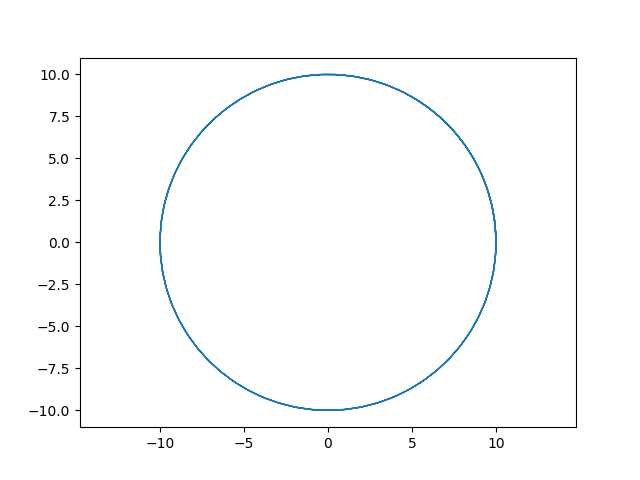
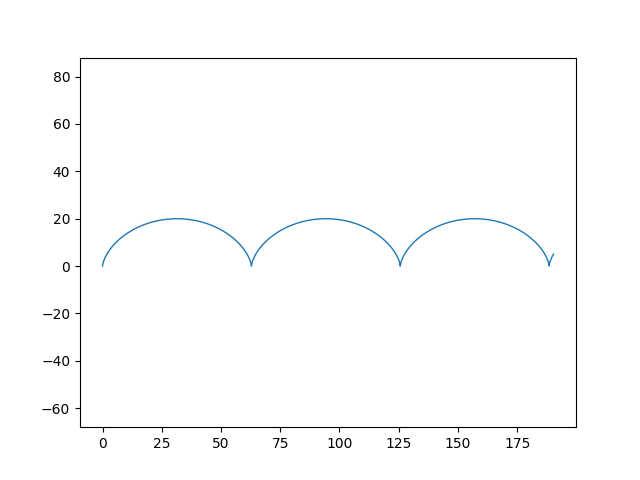
1

diff --git a/task_1_2.py b/task_1_2.py
@@ -2,3 +2,22 @@ import matplotlib.pyplot as plt
 import numpy as np
 from matplotlib.animation import FuncAnimation
 
+fig,axis=plt.subplots()
+axis.set_xlim([-10,10])
+axis.set_ylim([-10,10])
+plt.axis('equal')
+a=1 #параметр увеличения
+frames=10 #количество кадров
+alpha=np.linspace(0,2*np.pi,100) #массив значений alpha, для отрисовки круга на каждом кадре
+
+circle,=axis.plot([],[]) #график круга
+
+def update_circle(t):
+    r=t*a #радиус
+    x=r*np.cos(alpha)
+    y=r*np.sin(alpha)
+    circle.set_data(x,y) #передача вычисленных координат
+    return circle,
+
+animation=FuncAnimation(fig=fig,func=update_circle,frames=frames,interval=50)
+animation.save('task_1_2.gif',writer='pillow')

diff --git a/task_1_3_1.py b/task_1_3_1.py
@@ -1,0 +1,23 @@
+import matplotlib.pyplot as plt
+import numpy as np
+from matplotlib.animation import FuncAnimation
+
+fig,axis=plt.subplots()
+axis.set_xlim(-5,5)
+axis.set_ylim(-5,5)
+plt.axis('equal')
+
+frames=10
+alpha=np.linspace(0,12*np.pi,1000)
+butterfly,=axis.plot([],[])
+
+vx=0.1
+vy=0.1
+
+def update_butterfly(t):
+    x=np.sin(alpha)*(np.e**np.cos(alpha)-2*np.cos(4*alpha)+(np.sin(alpha/12))**5)+t*vx
+    y=np.cos(alpha)*(np.e**np.cos(alpha)-2*np.cos(4*alpha)+(np.sin(alpha/12))**5)+t*vy
+    butterfly.set_data(x,y)
+    return butterfly,
+animation=FuncAnimation(fig=fig,func=update_butterfly,frames=frames,interval=50)
+animation.save('task_1_3_1.gif',writer='pillow')

diff --git a/task_2_1_1.py b/task_2_1_1.py
@@ -1,0 +1,26 @@
+import matplotlib.pyplot as plt
+import numpy as np
+from matplotlib.animation import FuncAnimation
+
+fig,axis=plt.subplots()
+axis.set_xlim(-10,10)
+axis.set_ylim(-10,10)
+plt.axis('equal')
+
+r=10
+alpha=np.linspace(0,10,100)    
+x=r*(alpha-np.sin(alpha))
+y=r*(1-np.cos(alpha))
+
+frames=len(x)
+
+plot,=axis.plot(x,y)
+point,=axis.plot([],[],'o')
+
+def update_point(t):
+    point_x=x[t-1:t]
+    point_y=y[t-1:t]
+    point.set_data(point_x,point_y)
+    return point,
+animation=FuncAnimation(fig=fig,func=update_point,frames=frames,interval=100)
+animation.save('task_2_1_1.gif',writer='pillow')

diff --git a/task_2_1_2.py b/task_2_1_2.py
@@ -1,0 +1,26 @@
+import matplotlib.pyplot as plt
+import numpy as np
+from matplotlib.animation import FuncAnimation
+
+fig,axis=plt.subplots()
+axis.set_xlim(-10,10)
+axis.set_ylim(-10,10)
+plt.axis('equal')
+
+r=10
+alpha=np.linspace(0,2*np.pi,100)    
+x=r*np.cos(alpha)**3
+y=r*np.sin(alpha)**3
+
+frames=len(x)
+
+plot,=axis.plot(x,y)
+point,=axis.plot([],[],'o')
+
+def update_point(t):
+    point_x=x[t-1:t]
+    point_y=y[t-1:t]
+    point.set_data(point_x,point_y)
+    return point,
+animation=FuncAnimation(fig=fig,func=update_point,frames=frames,interval=100)
+animation.save('task_2_1_2.gif',writer='pillow')

diff --git a/task_1_3_2.py b/task_1_3_2.py
@@ -1,0 +1,23 @@
+import matplotlib.pyplot as plt
+import numpy as np
+from matplotlib.animation import FuncAnimation
+
+fig,axis=plt.subplots()
+axis.set_xlim(-20,20)
+axis.set_ylim(-20,20)
+plt.axis('equal')
+
+frames=10
+alpha=np.linspace(0,2*np.pi,100)
+heart,=axis.plot([],[])
+
+vx=0.5
+vy=0.5
+
+def update_heart(t):
+    x=16*np.sin(alpha)**3+t*vx
+    y=13*np.cos(alpha)-5*np.cos(2*alpha)-2*np.cos(3*alpha)-np.cos(4*alpha)+t*vy
+    heart.set_data(x,y)
+    return heart,
+animation=FuncAnimation(fig=fig,func=update_heart,frames=frames,interval=50)
+animation.save('task_1_3_2.gif',writer='pillow')

diff --git a/task_1_4.py b/task_1_4.py
@@ -1,0 +1,23 @@
+import matplotlib.pyplot as plt
+import numpy as np
+from matplotlib.animation import FuncAnimation
+
+fig,axis=plt.subplots()
+axis.set_xlim(-1,1)
+axis.set_ylim(-1,1)
+axis.axis('equal')
+n=20
+points,=axis.plot([],[],'o')
+x0,y0=0.1,0.1
+x=[x0]
+y=[y0]
+c=0.3
+d=0.33
+for n in range(1,n):
+    x.append((x[n-1])**2-(y[n-1])**2+c)
+    y.append(2*x[n-1]*y[n-1]+d)
+def update(t):
+    points.set_data(x[:t],y[:t])
+    return points,
+animation=FuncAnimation(fig=fig,func=update,frames=n,interval=100)
+animation.save('task_1_4.gif',writer='pillow')

diff --git a/task_1_1.py b/task_1_1.py
@@ -10,10 +10,11 @@ def cycloida(r):
     plt.savefig('task_1_1_1.png')
 def astroida(r):
     p=np.arange(0,20,0.1)
-    x=r*np.cos(p)
-    y=r*np.sin(p)
+    x=r*np.cos(p)**3
+    y=r*np.sin(p)**3
     plt.plot(x,y,ls='-',lw=1)
     plt.axis('equal')
-    plt.savefig('task_1_1_1.png')
+    plt.savefig('task_1_1_2.png')
 if __name__=='__main__':
+    cycloida(10)
     astroida(10)
